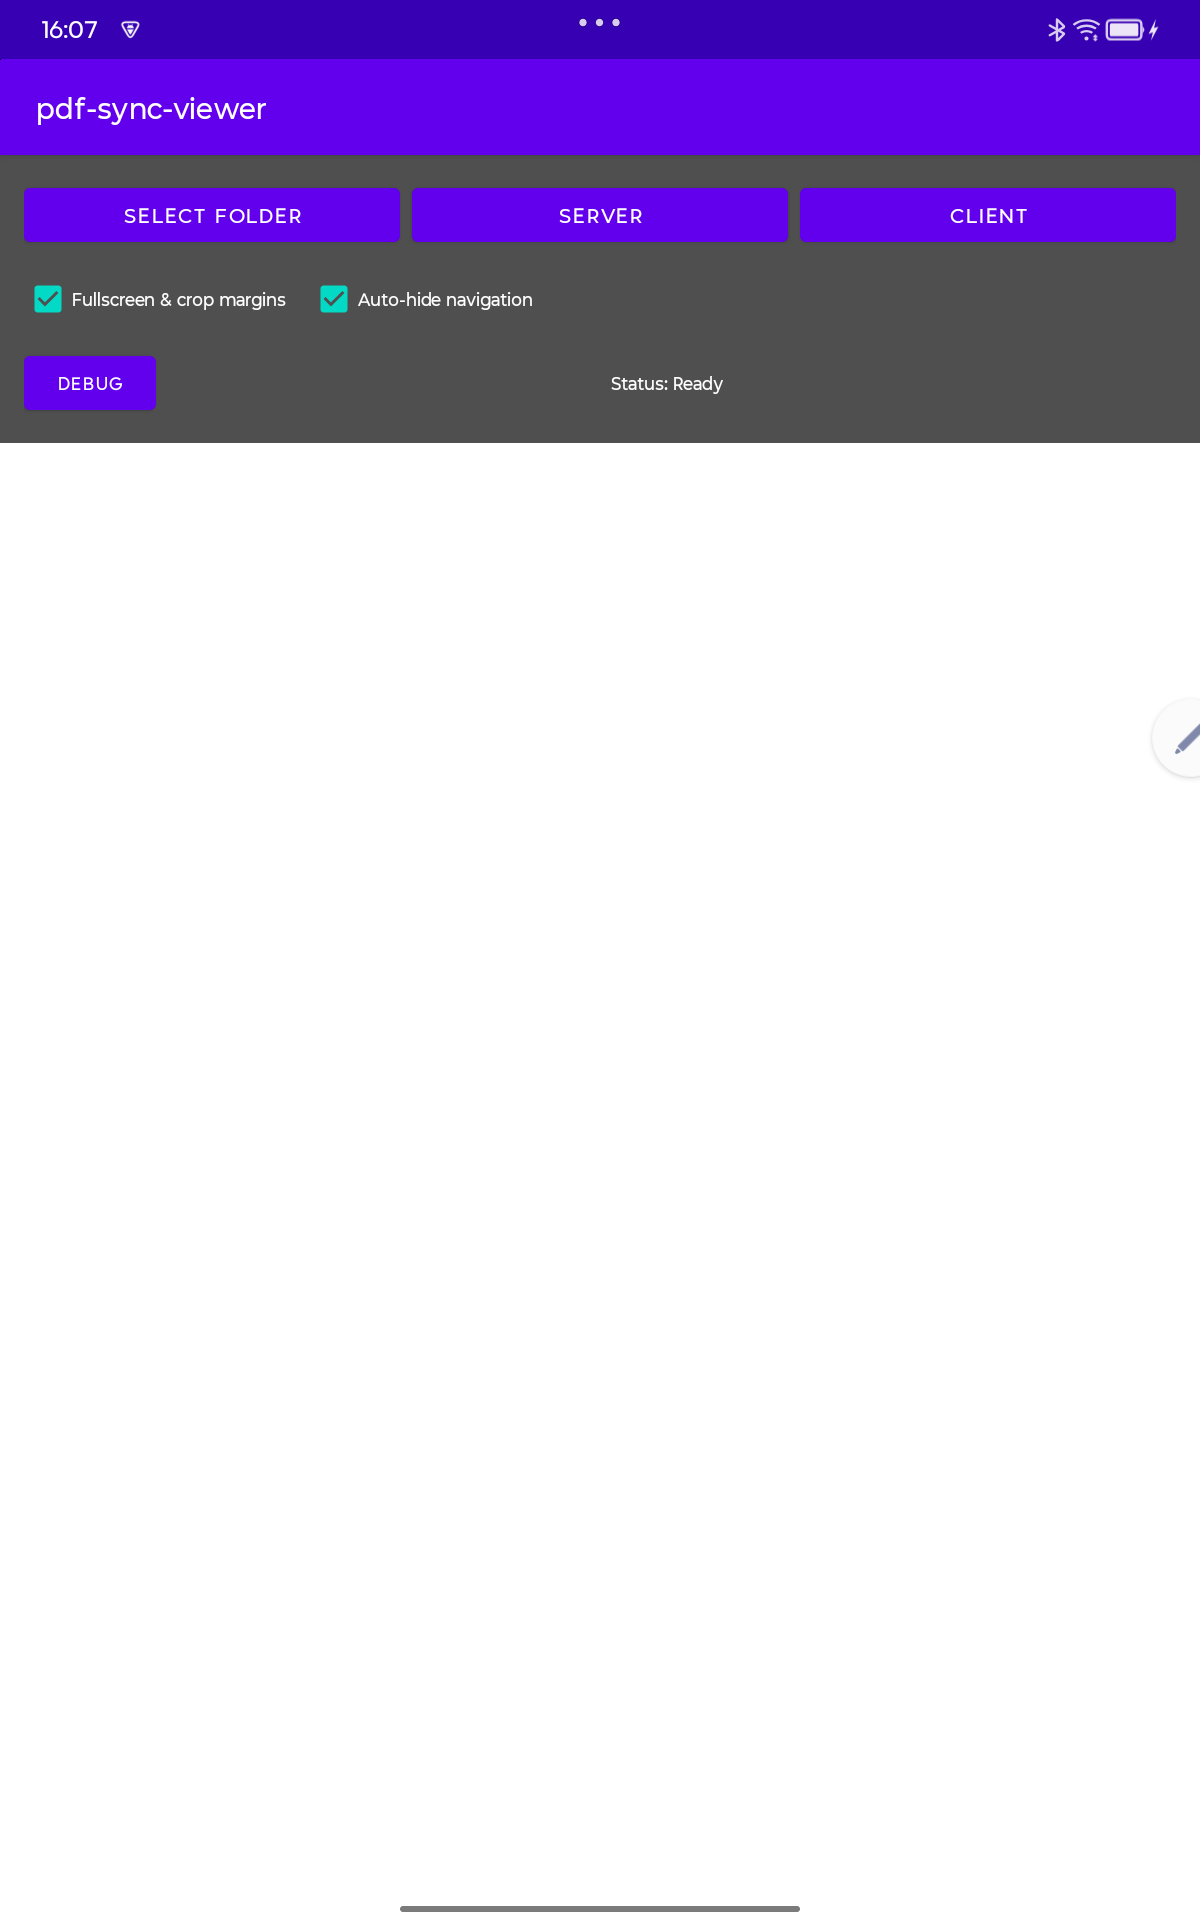
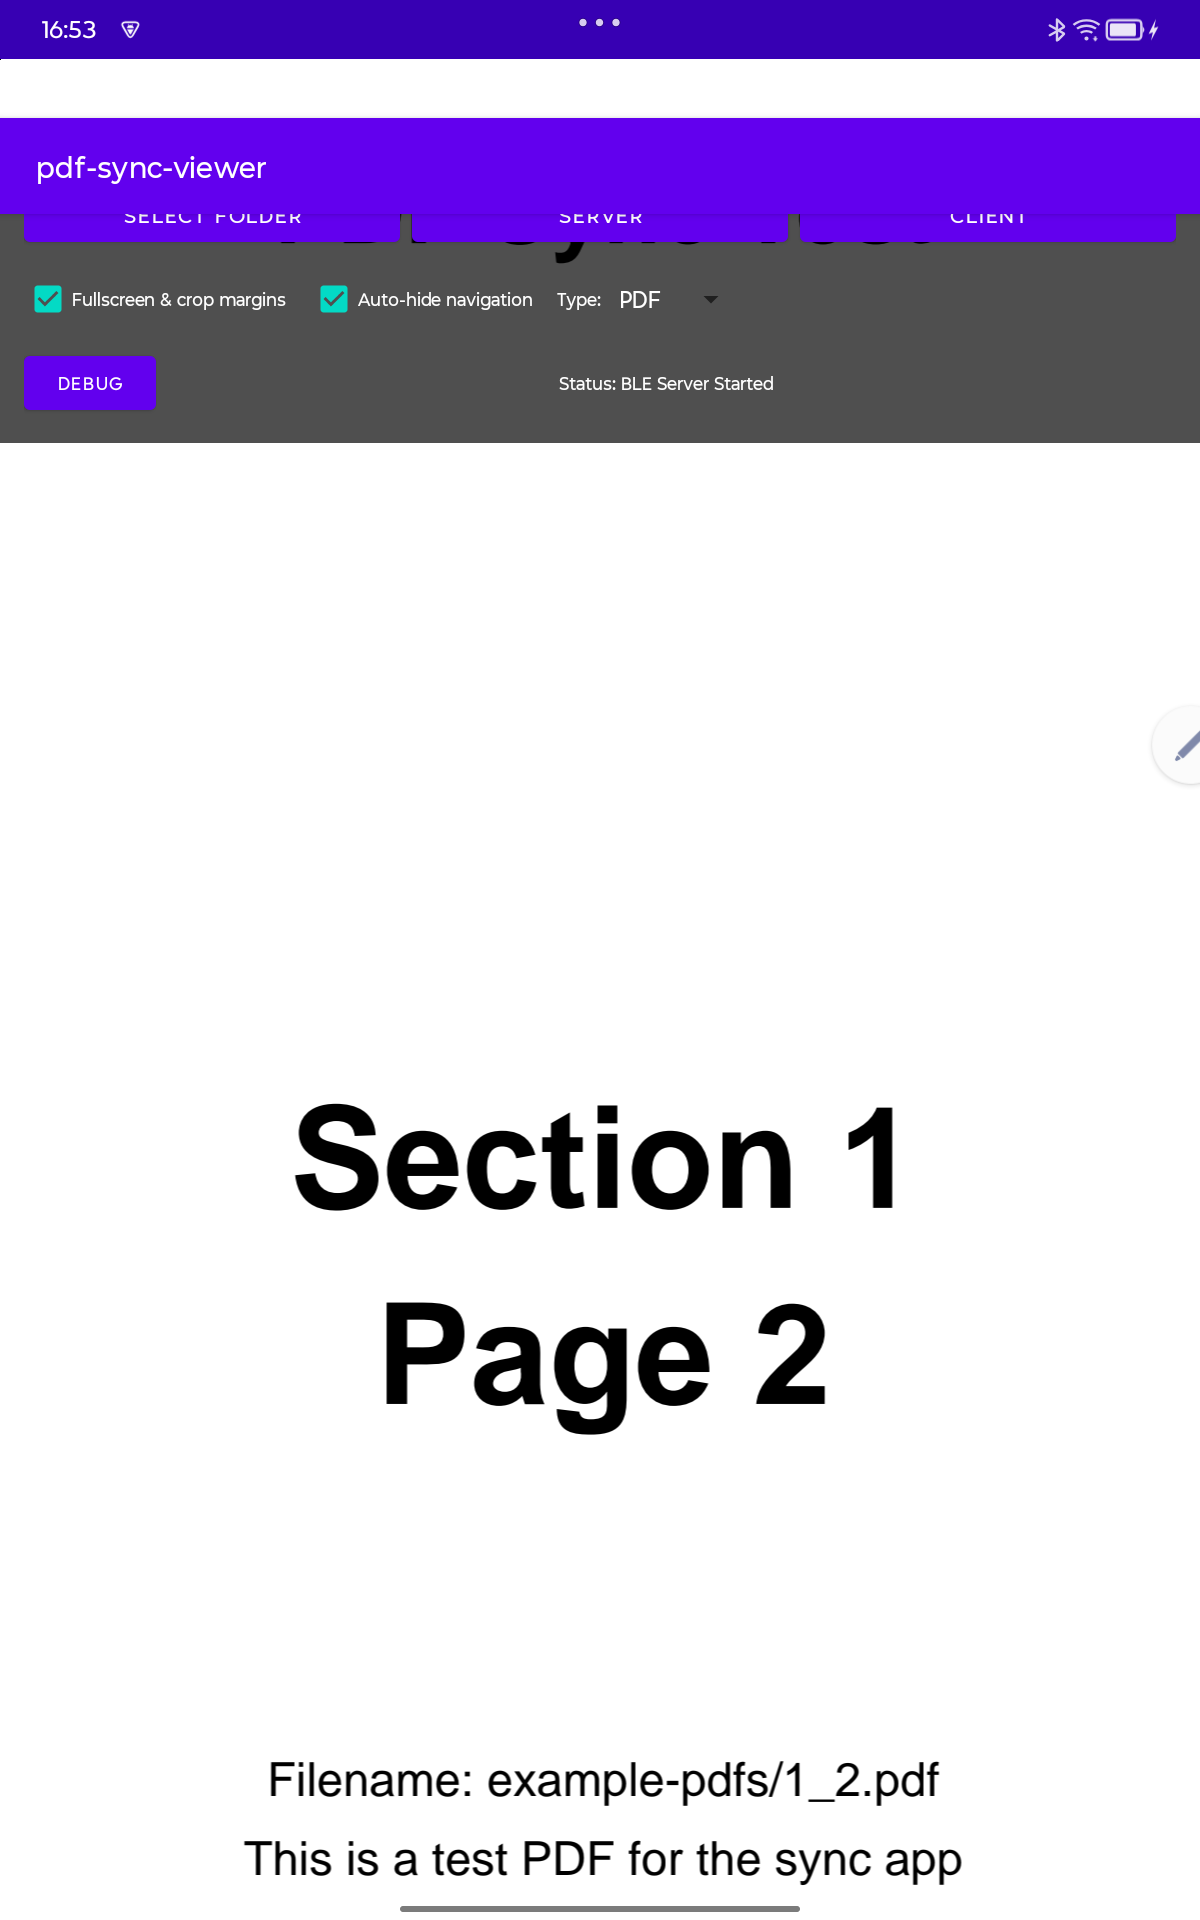
Update README screenshots: settings row, client sync, number display

diff --git a/README.md b/README.md
@@ -26,6 +26,10 @@ This project enables synchronized PDF viewing between Android devices first usin
 |---|---|---|
 | ![Setup](docs/screenshots/setup.png) | ![Reading fullscreen](docs/screenshots/reading-fullscreen.png) | ![Reading controls](docs/screenshots/reading-controls.png) |
 
+| Client following the server | Number display (no files needed) |
+|---|---|
+| ![Client sync](docs/screenshots/client-sync.png) | ![Number display](docs/screenshots/number-display.png) |
+
 ## 📱 Features
 
 - **Real-time PDF Sync**: Page changes broadcast via BLE
